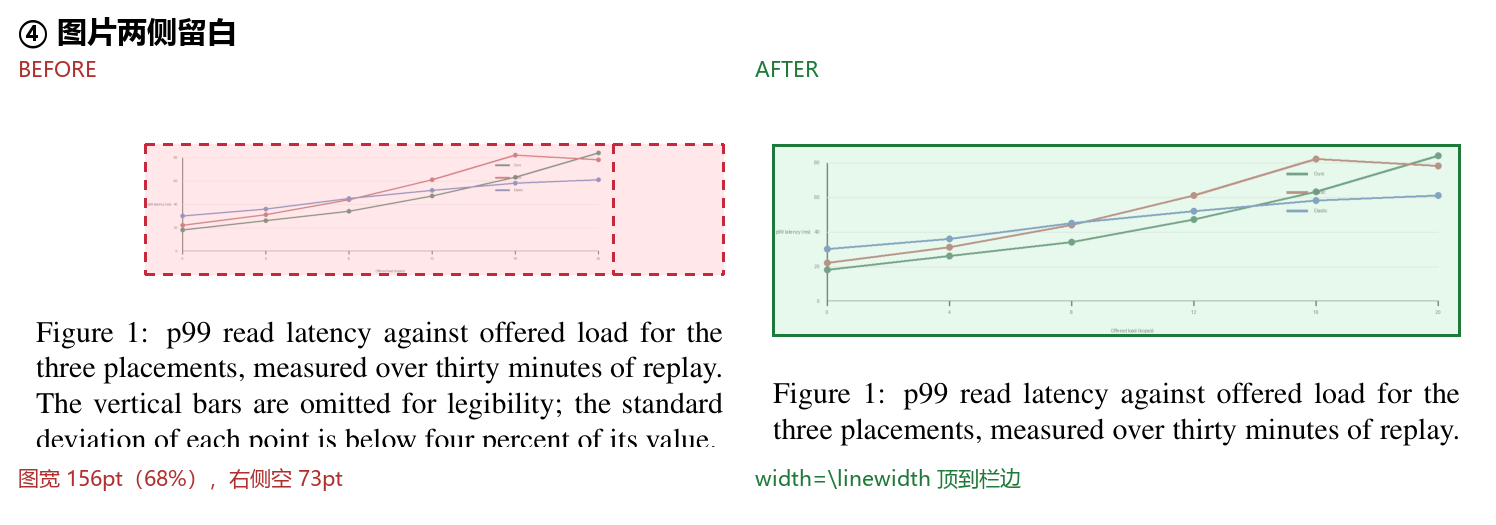
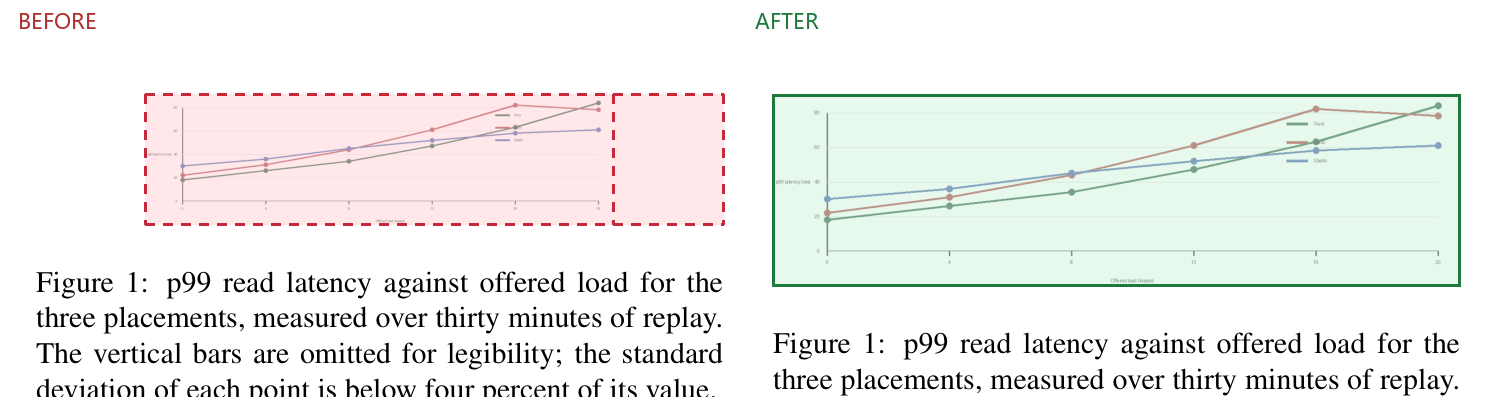
Drop in-image titles so captions live in the README

diff --git a/examples/sample-1p/compose3.py b/examples/sample-1p/compose3.py
@@ -23,10 +23,34 @@ def font(size, bold=False):
     return ImageFont.truetype(FONT_B if bold else FONT_R, size)
 
 
-def crop(page, rect, pad=2):
-    r = fitz.Rect(rect.x0 - pad, rect.y0 - pad, rect.x1 + pad, rect.y1 + pad) & page.rect
+def crop(page, rect, pad=2, pady=None):
+    py = pad if pady is None else pady
+    r = fitz.Rect(rect.x0 - pad, rect.y0 - py, rect.x1 + pad, rect.y1 + py) & page.rect
     pix = page.get_pixmap(matrix=fitz.Matrix(ZOOM, ZOOM), clip=r)
     return Image.frombytes("RGB", (pix.width, pix.height), pix.samples), r
+
+
+def rows_of(page):
+    out = []
+    for blk in page.get_text("dict")["blocks"]:
+        for ln in blk.get("lines", []):
+            r = fitz.Rect(ln["bbox"])
+            if r.height > 1 and r.width > 20:
+                out.append(r)
+    return out
+
+
+def snap(page, rect):
+    """把裁剪边扩到整行，只算与裁剪框横向相交的文本行，避免露出半截字。"""
+    rs = [r for r in rows_of(page) if r.x1 > rect.x0 + 1 and r.x0 < rect.x1 - 1]
+    top, bot = rect.y0, rect.y1
+    inside = [r for r in rs if r.y0 <= rect.y0 <= r.y1]
+    top = min(r.y0 for r in inside) if inside else max(
+        [r.y0 for r in rs if r.y0 < rect.y0] or [rect.y0])
+    inside = [r for r in rs if r.y0 <= rect.y1 <= r.y1]
+    bot = max(r.y1 for r in inside) if inside else min(
+        [r.y1 for r in rs if r.y1 > rect.y1] or [rect.y1])
+    return fitz.Rect(rect.x0, top, rect.x1, bot)
 
 
 def search(page, text):
@@ -92,12 +116,12 @@ def mark(layer, r, origin, off, color, tint, scale, dashed_flag=True, w=6, dash=
         layer.rectangle([x0, y0, x1, y1], outline=color, width=w)
 
 
-def panel(idx, title, note, left, right, lb, rb, out):
+def panel(left, right, lb, rb, out):
     (limg, lrect), lbox = left, lb
     (rimg, rrect), rbox = right, rb
-    gap, head, foot = 24, 92, 58
+    gap, head, foot = 24, 44, 12
     W = limg.width + rimg.width + gap + 28
-    H = head + max(limg.height, rimg.height) + foot + 16
+    H = head + max(limg.height, rimg.height) + foot
     canvas = Image.new("RGB", (W, H), (255, 255, 255))
     off_l = (14, head)
     off_r = (14 + limg.width + gap, head)
@@ -117,13 +141,11 @@ def panel(idx, title, note, left, right, lb, rb, out):
     canvas = Image.alpha_composite(base, lay).convert("RGB")
 
     d = ImageDraw.Draw(canvas)
-    d.text((14, 12), title, font=font(30, True), fill=(25, 25, 30))
     for off, img in ((off_l, limg), (off_r, rimg)):
         d.rectangle([off[0] - 1, off[1] - 1, off[0] + img.width, off[1] + img.height],
                     outline=(160, 160, 168), width=3)
         d.text((off[0], off[1] - 26), "修改前" if off == off_l else "修改后",
                font=font(20, True), fill=(90, 90, 96))
-    d.text((14, head + max(limg.height, rimg.height) + 18), note, font=font(24), fill=(70, 70, 78))
     canvas.save(os.path.join(HERE, out))
     print("wrote", out, canvas.size)
 
@@ -138,11 +160,9 @@ def main():
     tail = min((i for i in jb["issues"] if i["category"] == "widow"), key=lambda i: i["extra"]["fill"])
     lbox = [fitz.Rect(tail["bbox"])]
     rbox = [line_of(a, "post-hoc filters")]
-    lrect = fitz.Rect(60, lbox[0].y0 - 48, 312, lbox[0].y1 + 14)
-    rrect = fitz.Rect(60, rbox[0].y0 - 48, 312, rbox[0].y1 + 14)
-    panel(1, "问题 ①：寡行 —— 末行只剩一个词，整行白掉",
-          "修法：删词（把从句压掉），让这一行消失 —— 末行占比 12% → 95%，不是加字填长",
-          crop(b, lrect), crop(a, rrect), lbox, rbox, "cmp-06-widow.png")
+    lrect = snap(b, fitz.Rect(60, lbox[0].y0 - 48, 312, lbox[0].y1 + 14))
+    rrect = snap(a, fitz.Rect(60, rbox[0].y0 - 48, 312, rbox[0].y1 + 14))
+    panel(crop(b, lrect, pady=0), crop(a, rrect, pady=0), lbox, rbox, "cmp-02-widow-delete.png")
 
     # ② 列表：左边距 + 条目末行不满
     first_b = b.search_for("Quadratic attention")[0]
@@ -153,11 +173,9 @@ def main():
     bl_a = bullet_left(a, first_a.y0, last_a.y1) or first_a.x0 - 12
     lb = fitz.Rect(bl_b - 4, first_b.y0 - 3, 301.0, last_b.y1 + 3)
     rb = fitz.Rect(bl_a - 4, first_a.y0 - 3, 301.0, last_a.y1 + 3)
-    lrect = fitz.Rect(66, lb.y0 - 42, 322, lb.y1 + 16)
-    rrect = fitz.Rect(66, rb.y0 - 42, 322, rb.y1 + 18)
-    panel(2, "问题 ②：列表 —— 左缩进 11pt，每条都折成两行",
-          "修法：enumitem 去左缩进，并把三条压成单行（删词，不加字）",
-          crop(b, lrect), crop(a, rrect), [lb], [rb], "cmp-07-list.png")
+    lrect = snap(b, fitz.Rect(66, lb.y0 - 42, 322, lb.y1 + 16))
+    rrect = snap(a, fitz.Rect(66, rb.y0 - 42, 322, rb.y1 + 18))
+    panel(crop(b, lrect, pady=0), crop(a, rrect, pady=0), [lb], [rb], "cmp-07-list.png")
 
     # ③ 多子图：子图间距 26pt + 上方空带 34pt
     imgs_b = [fitz.Rect(i["bbox"]) for i in b.get_image_info()]
@@ -168,13 +186,14 @@ def main():
     band_a = fitz.Rect(imgs_a[0])
     for r in imgs_a[1:]:
         band_a |= r
-    lrect = fitz.Rect(302, band_b.y0 - 34, 545, band_b.y1 + 44)
-    rrect = fitz.Rect(band_a.x0 - 8, band_a.y0 - 6, band_a.x1 + 8, band_a.y1 + 40)
+    lrect = snap(b, fitz.Rect(302, band_b.y0 - 34, 545, band_b.y1 + 44))
+    rrect = snap(a, fitz.Rect(band_a.x0 - 8, band_a.y0 - 6, band_a.x1 + 8, band_a.y1 + 40))
     gapbox = fitz.Rect(imgs_b[0].x1, band_b.y0, imgs_b[1].x0, band_b.y1)
-    topbox = fitz.Rect(band_b.x0, band_b.y0 - 30, band_b.x1, band_b.y0 - 2)
-    panel(3, "问题 ③：多子图 —— 子图间距 26pt、上方空带 34pt",
-          "修法：width=0.49\\linewidth + 4pt 间距，去掉 \\vspace，图整体贴住正文",
-          crop(b, lrect), crop(a, rrect), [gapbox, topbox], [band_a], "cmp-08-subfig.png")
+    above = [r for r in rows_of(b) if r.y1 <= band_b.y0 and r.x1 > band_b.x0 and r.x0 < band_b.x1]
+    text_bot = max(r.y1 for r in above) if above else band_b.y0 - 30
+    topbox = fitz.Rect(band_b.x0, text_bot + 1, band_b.x1, band_b.y0 - 1)
+    panel(crop(b, lrect, pady=0), crop(a, rrect, pady=0), [gapbox, topbox], [band_a],
+          "cmp-08-subfig.png")
 
 
 if __name__ == "__main__":

diff --git a/examples/sample-4p/compose_compare.py b/examples/sample-4p/compose_compare.py
@@ -260,19 +260,17 @@ def main():
                  ia, ua, [fitz.Rect(LEFT[0], ha.y0 - 4, LEFT[0] + 82, ha.y1 + 1)],
                  "2.1.1 Relaxation 独占一行＋上下空行", "Relaxation. 变成行内小标题"))
 
-    f_t = ImageFont.truetype(FONT_B, 30)
     f_s = ImageFont.truetype(FONT_R, 21)
     names = ["01-widow", "03-table", "04-figure", "05-equation", "06-heading"]
 
-    for name, (title, ib, ub, bb, ia, ua, ba, lb, la) in zip(names, rows):
+    for name, (_, ib, ub, bb, ia, ua, ba, _, _) in zip(names, rows):
         sb, sa = ib, ia
         w = max(sb.width, sa.width)
-        img = Image.new("RGB", (PAD * 2 + w * 2 + GAP, 84 + max(sb.height, sa.height) + 78), "white")
+        top = 34
+        img = Image.new("RGB", (PAD * 2 + w * 2 + GAP, top + max(sb.height, sa.height) + PAD), "white")
         d = ImageDraw.Draw(img)
-        d.text((PAD, 10), title, font=f_t, fill="black")
-        d.text((PAD, 54), "BEFORE", font=f_s, fill="#b03030")
-        d.text((PAD + w + GAP, 54), "AFTER", font=f_s, fill="#1f7a3a")
-        top = 84
+        d.text((PAD, 6), "BEFORE", font=f_s, fill="#b03030")
+        d.text((PAD + w + GAP, 6), "AFTER", font=f_s, fill="#1f7a3a")
         img.paste(sb, (PAD, top))
         img.paste(sa, (PAD + w + GAP, top))
         layer = Image.new("RGBA", img.size, (0, 0, 0, 0))
@@ -283,10 +281,6 @@ def main():
             mark(ld, r, ua, (PAD + w + GAP, top), (30, 122, 58), (205, 240, 215, 120),
                  ZOOM, dashed_flag=False)
         img = Image.alpha_composite(img.convert("RGBA"), layer).convert("RGB")
-        d = ImageDraw.Draw(img)
-        cy = top + max(sb.height, sa.height) + 16
-        d.text((PAD, cy), lb, font=f_s, fill="#b03030")
-        d.text((PAD + w + GAP, cy), la, font=f_s, fill="#1f7a3a")
         img.save(f"cmp-{name}.png")
         print("saved", f"cmp-{name}.png", img.size)
 
